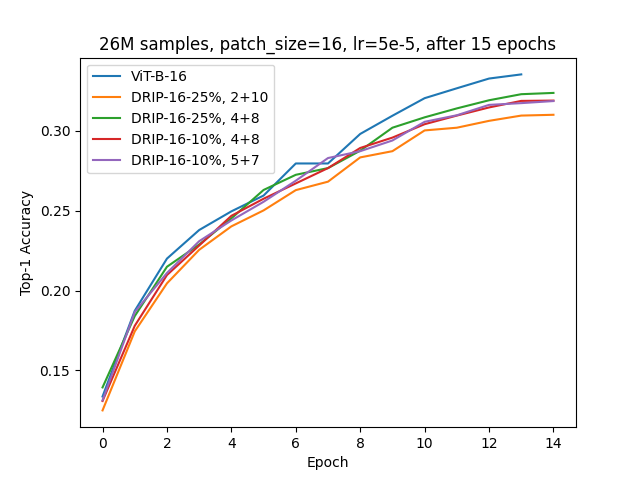
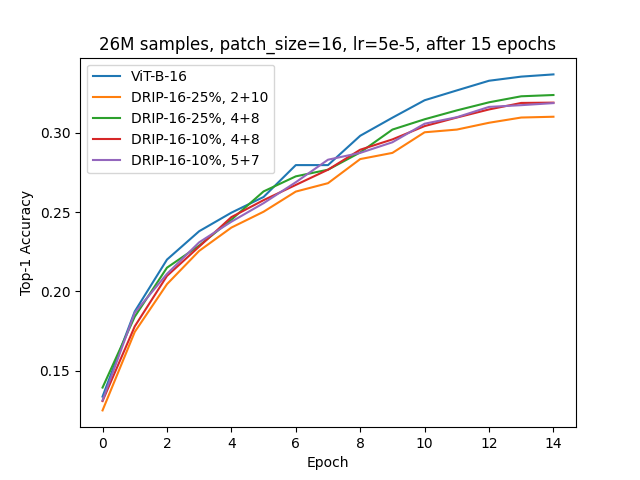
this set of CLIP experiments is done

diff --git a/README.md b/README.md
@@ -108,13 +108,13 @@ Train with **15** epochs:
 
 | model details | GFLOPs | training | top-1 zero-shot | top-5 zero-shot |
 | ----- | ------ | ------ | ----- | ----- |
-| ViT-B-16 | **11.29** | 15 epochs on 26M | **running** | **running** |
+| ViT-B-16 | **11.29** | 15 epochs on 26M | **33.68%** | **61.19%** |
 | 💧DRIP-4X-16, 4+8 | 9.55🔥 | 15 epochs on 26M | 32.38%🔥 | 59.91%🔥 |
 | 💧DRIP-4X-16, 2+10 | 7.13 | 15 epochs on 26M | 31.01% | 57.70% |
 | 💧DRIP-10X-16, 5+7 | 9.11 | 15 epochs on 26M | 31.87% | 59.37% |
 | 💧DRIP-10X-16, 4+8 | 7.66 | 15 epochs on 26M | 31.90% | 59.20% |
-| ViT-B-16 | 11.29 | 8 epochs on 178M | **running** | **running** |
-| 💧DRIP-4X-16, 4+8 | 9.55🔥 | 8 epochs on 178M | **running** | **running** |
+<!-- | ViT-B-16 | 11.29 | 8 epochs on 178M | **running** | **running** |
+| 💧DRIP-4X-16, 4+8 | 9.55🔥 | 8 epochs on 178M | **running** | **running** | -->
 
 ![alt text](/NEW_acc_vis_16.png)
 
@@ -151,7 +151,7 @@ Now, moving from 224x224 (**196** patches) to 384x384 (**576** patches):
 | ViT-B-16, old repo | no pretraining | 224x224, 5e-4, 98 epochs | **50.96%** | N/A |
 | ViT-B-16, old repo | no pretraining | 384x384, 5e-4, 72 epochs | **54.84%** | N/A |
 | ViT-B-16, new repo | no pretraining | [training config](scripts/task1/configs/imagenet_new.sh) | **72.628%🔥** | ImageNet_72/model_299.pth |
-| DRIP-4x-16, 4+8, new repo | no pretraining | [training config](scripts/task1/configs/imagenet_new.sh) | **pending** | N/A |
+| DRIP-4x-16, 4+8, new repo | no pretraining | [training config](scripts/task1/configs/imagenet_new.sh) | **76.644% after 220 epochs** | N/A |
 
 The new repo (from official Pytorch Github repository) FINALLY reached **72.628%** ImageNet accuracy:
 
